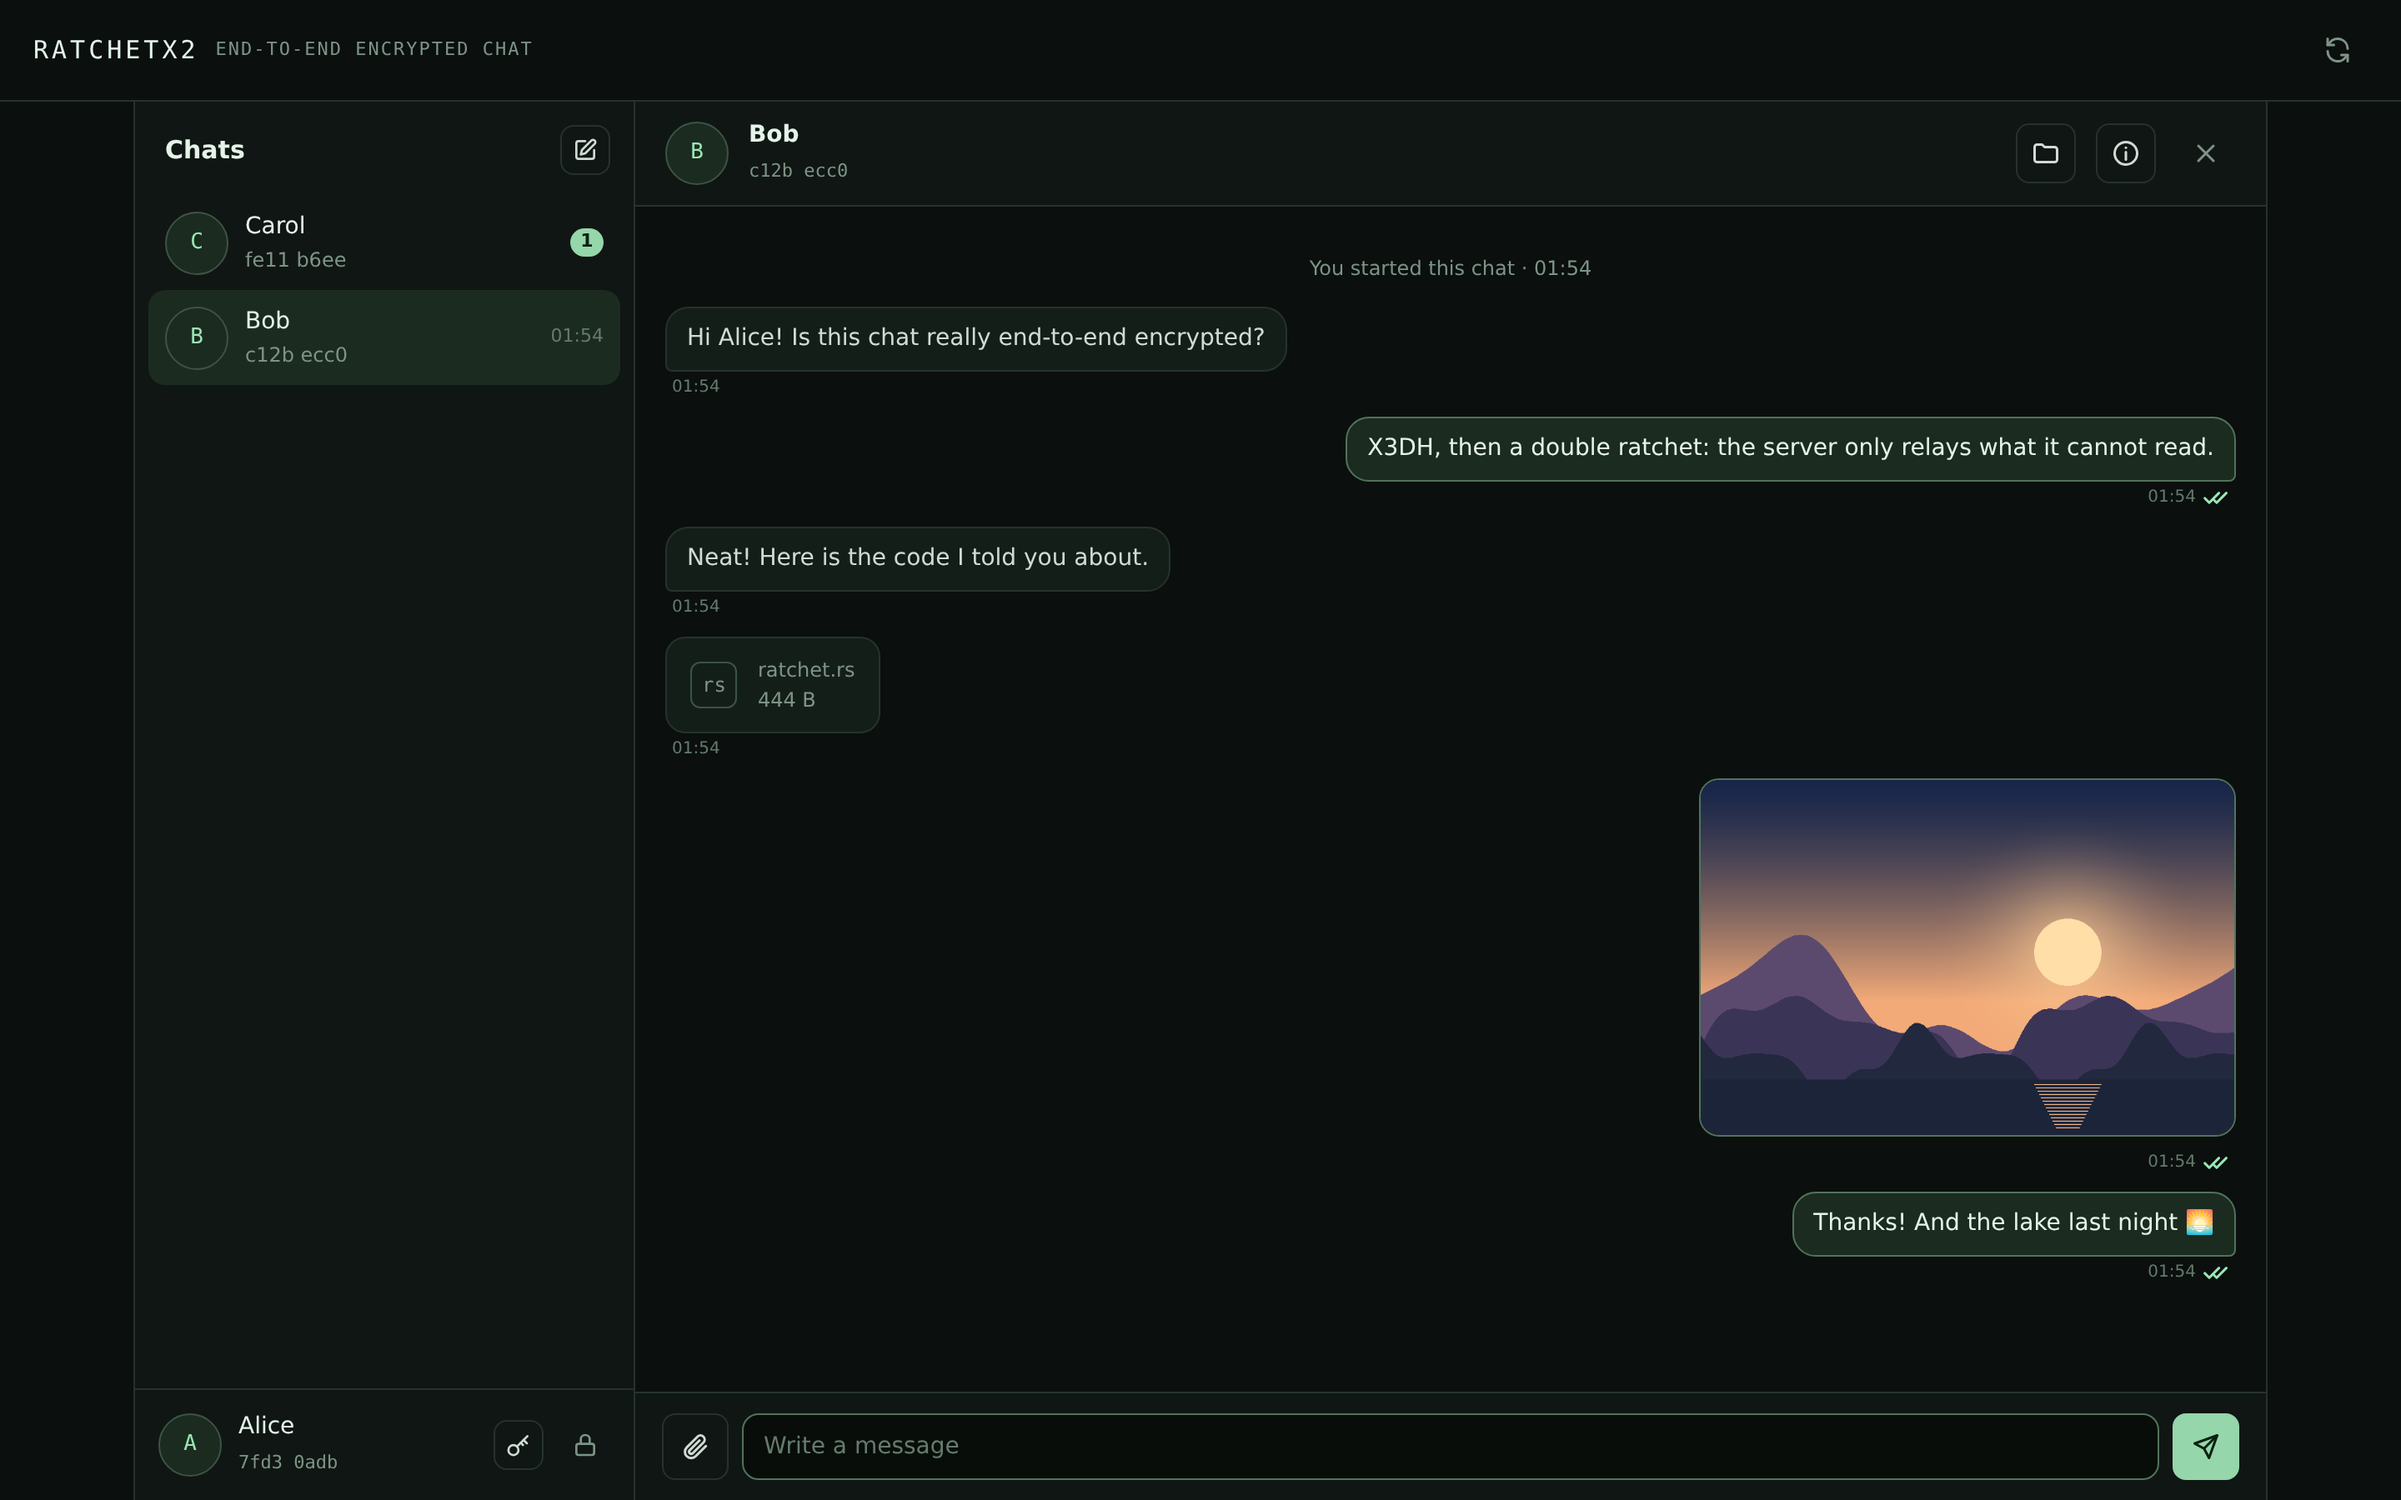
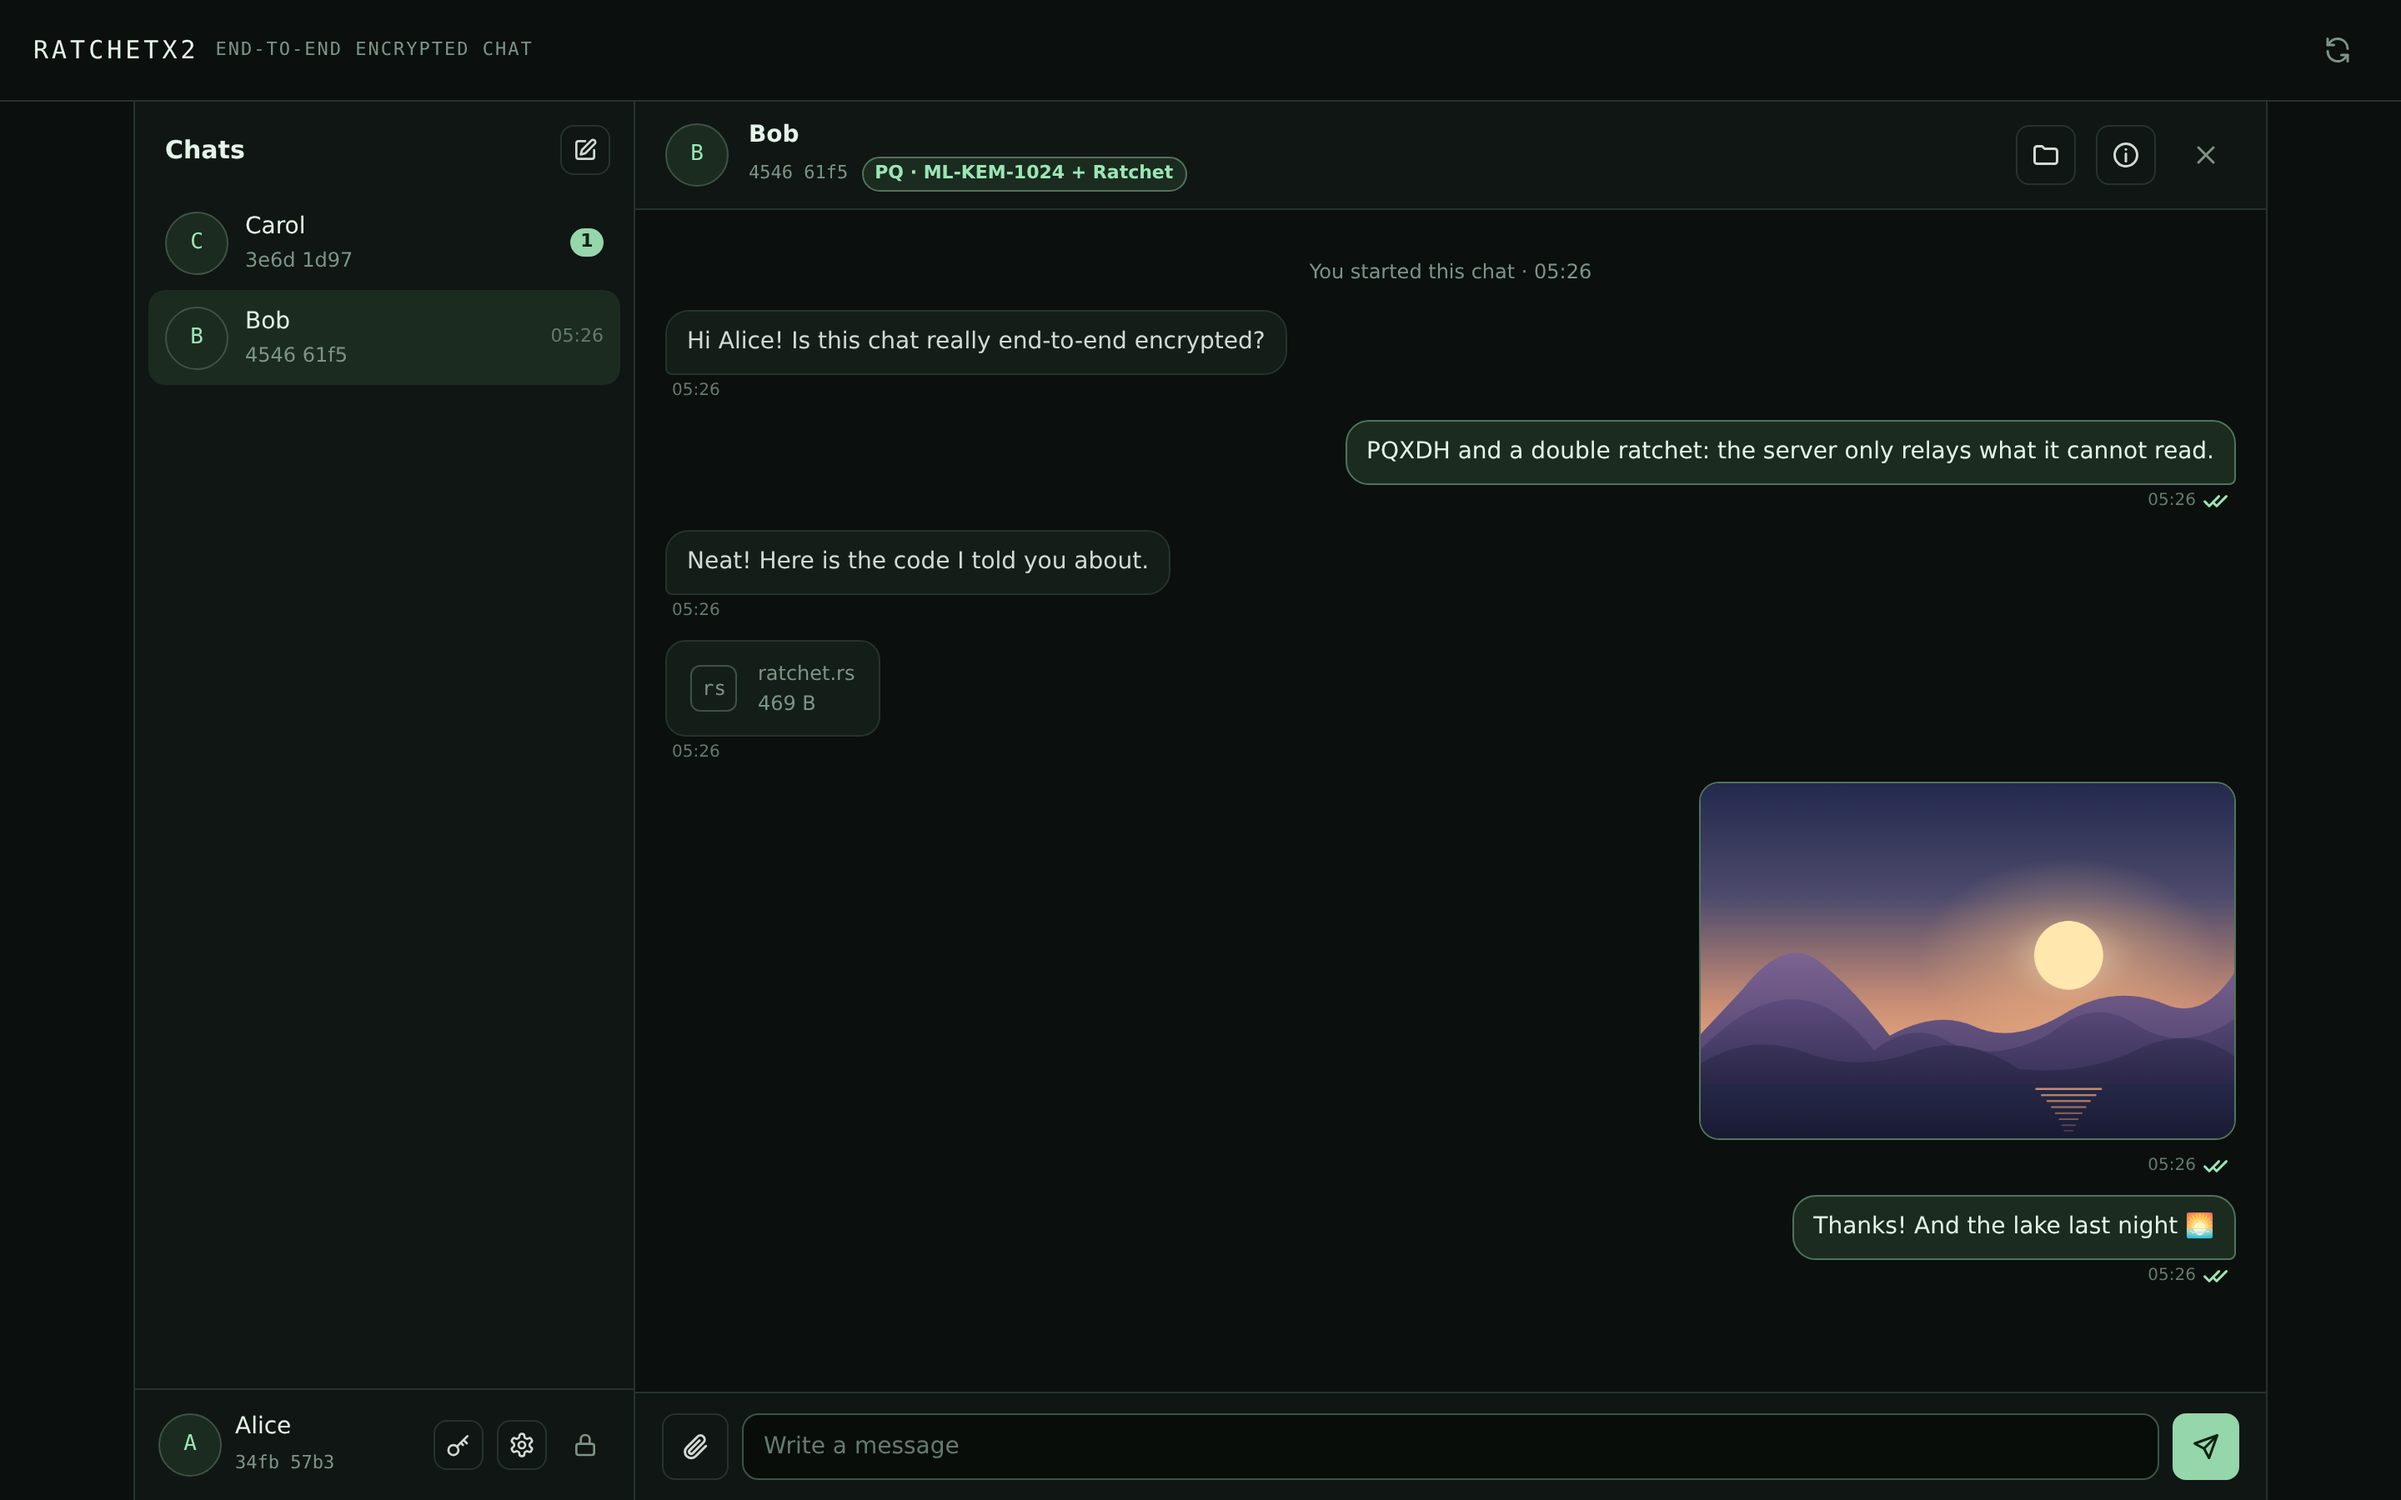
docs: update README screenshot for current web client UI

diff --git a/README.md b/README.md
@@ -1,6 +1,6 @@
 # About
 
-![The web client: a chat with read receipts, a file and an image](image/screenshot.png)
+![The web client: a post-quantum chat with read receipts, a file and an image](image/screenshot.png)
 
 - **[E2EE chat Worker](e2ee_chat_worker/README.md)**: the chat server as a Cloudflare Worker, over Connect, storing in Durable Objects and R2, and serving the web client
 - **[E2EE chat web client](e2ee_chat_web/README.md)**: the web client, in Leptos: keys and sessions stay in the browser, in a vault sealed by a passphrase
